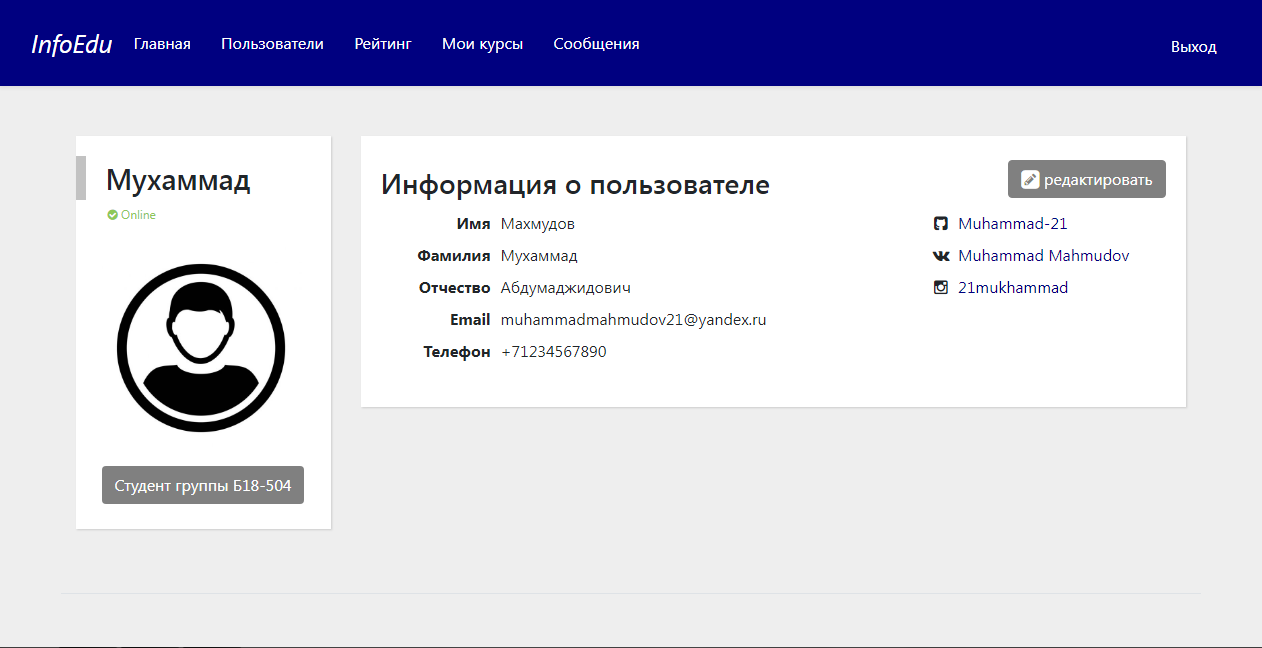
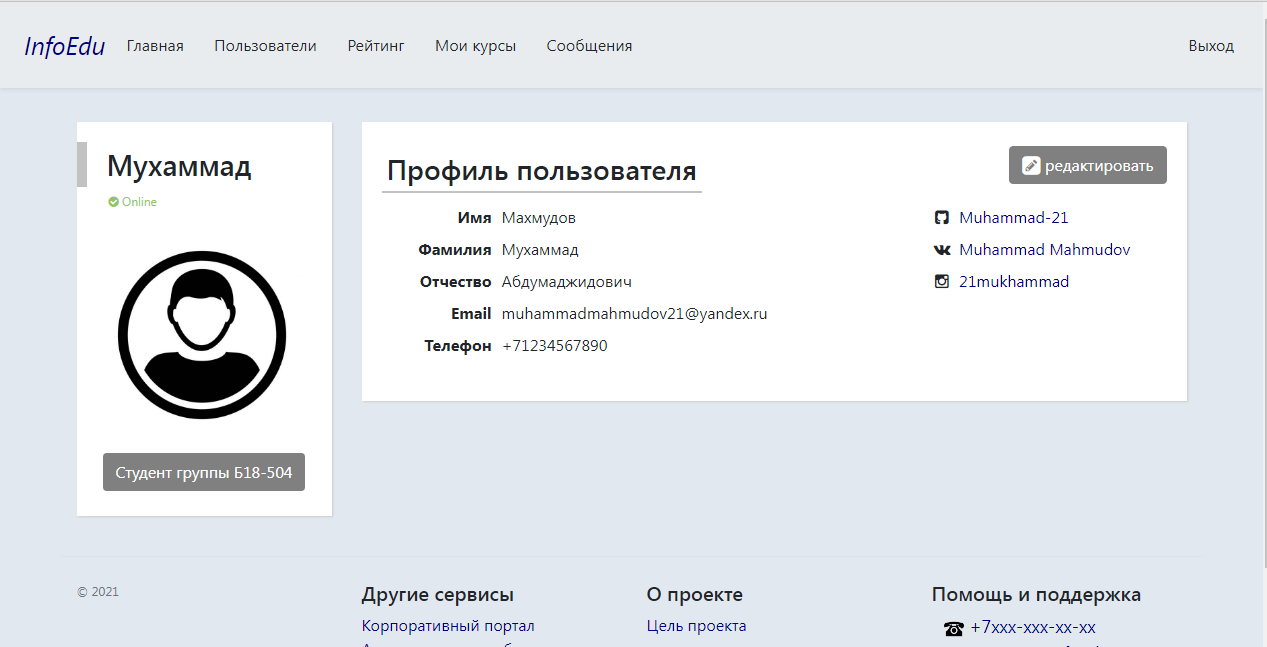
[*] new interface

diff --git a/js/headers.js b/js/headers.js
@@ -17,20 +17,20 @@ RatingEl.onclick = () => {
         BlockEl.style.display='block';
     },3500);
     }
-    MyCourseEl.style.background = 'Navy'
-    MyCourseEl.style.color = 'white';
+    MyCourseEl.style.background = '#e9ecef'
+    MyCourseEl.style.color = 'black';
     RatingEl.style.background = 'white'
-    RatingEl.style.color = 'black';
+    RatingEl.style.color = '#2aa493';
     CoursesEl.style.display = 'none';
     PersonEl.style.display = 'none';
     MyRatingEl.style.display = 'block';
 }
 
 MyCourseEl.onclick = () => {
-    RatingEl.style.background = 'Navy'
-    RatingEl.style.color = 'white';
+    RatingEl.style.background = '#e9ecef'
+    RatingEl.style.color = 'black';
     MyCourseEl.style.background = 'white'
-    MyCourseEl.style.color = 'black';
+    MyCourseEl.style.color = '#2aa493';
     CoursesEl.style.display = 'block';
     PersonEl.style.display = 'none';
     PersonEl.style.display = 'none'

diff --git a/css/students.css b/css/students.css
@@ -1,13 +1,14 @@
-.user_inter{
-    margin-top:50px;
+
+    .button__hover:hover{
+        color:#2aa493;
+        background-color: white;
     }
-    
     h2 {
         clear: both;
         font-size: 1.8em;
         margin-bottom: 10px;
         padding: 10px 0 10px 30px;
-    } */
+    }
     
     h3 > span {
         border-bottom: 2px solid #C2C2C2;

diff --git a/js/oait_student.js b/js/oait_student.js
@@ -14,7 +14,7 @@ RatingEl.onclick = () => {
     },3500);
     }
     RatingEl.style.background = 'white'
-    RatingEl.style.color = 'black';
+    RatingEl.style.color = '#2aa493';
     PersonEl.style.display = 'none';
     MyRatingEl.style.display = 'block';
 }

diff --git a/student.php b/student.php
@@ -31,12 +31,12 @@ $courses=$results->fetch_assoc();
     <link rel="stylesheet" href="./css/students.css">
     <title>Личный кабинет</title>
 </head>
-<body style="background:#eee;">
+<body style="background:#e2e8f0;">
     <?php require 'blocks/header.php'?>
-    <div data-id="root">
+    <div style="margin-top: 120px;" data-id="root">
     <!-- Информация о студенте -->
     <div data-person="person">
-    <div class="container bootstrap snippets bootdeys user_inter">
+    <div class="container bootstrap snippets bootdeys">
     <div class="row" id="user-profile">
         <div class="col-lg-3 col-md-4 col-sm-4">
             <div class="main-box clearfix">
@@ -45,9 +45,11 @@ $courses=$results->fetch_assoc();
                     <i class="fa fa-check-circle"></i> Online
                 </div>
                 <form method="POST" action="../load_img.php" enctype="multipart/form-data">
-                    <label style="cursor:pointer" title="выберите фотографию" class="custom-file-upload">
+                    <label style="cursor:pointer" title="выберите фотографию" class="img__link custom-file-upload">
+                        <!-- <a href="#" class="img__link"> -->
                         <input name="image" style="display:none;" type="file" onchange="form.submit()"/>
-                        <a href="#" class="img__link"><img src="<?php echo '../img/users/'.$mail['photo_link']?>" alt="person" class="profile-img img-responsive"></a>
+                        <img src="<?php echo '../img/users/'.$mail['photo_link']?>" alt="person" class="profile-img img-responsive">
+                        <!-- </a> -->
                     </label>
                 </form>
                 <?php if($mail['photo_link']!=='personw.jpg' && $mail['photo_link']!=='person.jpg'){?>
@@ -66,7 +68,7 @@ $courses=$results->fetch_assoc();
         <div class="col-lg-9 col-md-18 col-sm-8">
             <div class="main-box clearfix">
                 <div class="profile-header">
-                    <h3><span>Информация о пользователе</span></h3>
+                    <h3><span>Профиль пользователя</span></h3>
                     <a href="#" class="btn btn-primary edit-profile">
                         <i class="fa fa-pencil-square fa-lg"></i> редактировать
                     </a>
@@ -202,6 +204,6 @@ $courses=$results->fetch_assoc();
     <?php require 'blocks/footer.php';
     $mysql->close();
     ?>
-    <script src="./js/header.js"></script>
+    <script src="./js/headers.js"></script>
 </body>
 </html>

diff --git a/oait.php b/oait.php
@@ -10,18 +10,18 @@ require 'exit/exit.php';
     <meta name="viewport" content="width=device-width, initial-scale=1.0">
     <link rel="icon" href="./img/favicon.png" type="image/x-icon">
     <link rel="stylesheet" href="https://stackpath.bootstrapcdn.com/bootstrap/4.3.1/css/bootstrap.min.css">
+    <link rel="stylesheet" href="./css/students.css">
     <title>ОАИТ</title>
 </head>
 <body>
-<div style="background-color: Navy ;">
-<div class="d-flex align-items-center flex-column flex-md-row p-3 px-md-4  shadow-sm">
-    <a class="p-2 text-dark" href="./student.php" style="text-decoration: none;"><span style="color: white; font-size: 25px; font-style:italic">InfoEdu</span></a>
-    <nav class="my-2 my-md-0 me-md-3" >
-    <a class="btn" style="color: white;" href="./student.php">Главная</a>
-    <div  data-id="rating" class="btn"   style="color: white;">Рейтинг</div>
-    <a class="btn" style="color: white; position:absolute; margin-left:60%; bottom:90%;" href="student.php">Вернуться назад</a>
+<div style="background-color: #e9ecef;position:fixed; top:0; width: 100%; z-index:1">
+<div class="d-flex align-items-center flex-md-row p-3 px-md-6  shadow-sm">
+<a class="p-2 text-dark" href="./student.php" style="text-decoration: none;"><span style="color: navy; font-size: 25px; font-style:italic">InfoEdu</span></a>
+<nav class="my-md-1" style="width: 100%;">
+    <a class="btn button__hover" href="./student.php">Главная</a>
+    <div style="cursor:pointer;"  data-id="rating" class="btn button__hover">Рейтинг</div>
+    <a class="btn button__hover" style="float:right" href="student.php">Вернуться назад</a>
     </nav>
-</div>
 </div>
 </div>
     <div style="margin-left: 10%;margin-top:10%;" data-lesson="lesson">
@@ -34,7 +34,7 @@ require 'exit/exit.php';
 
     <?php require 'scripts/rating.php'?>
     <!-- Раздел рейтинг -->
-    <div data-rating="rating">
+    <div style="margin-top:10%;" data-rating="rating">
         <h3 style="margin-left: 15%; margin-top:5%;" ><span>Рейтинг по курсу</span></h3>
         <h5 style="margin-left: 15%;" >Ваш балл по курсу: <?php echo $my_assessment?></h5>
        <div style="border: 3px solid Navy; padding: 40px; margin-left:15%;margin-right:15%;">

diff --git a/laba.php b/laba.php
@@ -11,19 +11,20 @@ $id_st=$_SESSION['id_student'];
     <meta name="viewport" content="width=device-width, initial-scale=1.0">
     <link rel="icon" href="./img/favicon.png" type="image/x-icon">
     <link rel="stylesheet" href="https://stackpath.bootstrapcdn.com/bootstrap/4.3.1/css/bootstrap.min.css">
+    <link rel="stylesheet" href="./css/students.css">
     <title>Лабораторные занятия</title>
 </head>
 <body>
-<div style="background-color: Navy ;">
-<div class="d-flex align-items-center flex-column flex-md-row p-3 px-md-4  shadow-sm">
-    <a class="p-2 text-dark" href="./student.php" style="text-decoration: none;"><span style="color: white; font-size: 25px; font-style:italic">InfoEdu</span></a>
-    <nav class="my-2 my-md-0 me-md-3" >
-    <a class="btn" style="color: white;" href="./student.php">Главная</a>
-    <a class="btn" style="color: white; position:absolute; margin-left:70%; bottom:90%;" href="oait.php">Вернуться назад</a>
+<div style="background-color: #e9ecef;position:fixed; top:0; width: 100%; z-index:1">
+<div class="d-flex align-items-center flex-md-row p-3 px-md-6  shadow-sm">
+<a class="p-2 text-dark" href="./student.php" style="text-decoration: none;"><span style="color: navy; font-size: 25px; font-style:italic">InfoEdu</span></a>
+<nav class="my-md-1" style="width: 100%;">
+    <a class="btn button__hover" href="./student.php">Главная</a>
+    <a class="btn button__hover" style="float:right" href="oait.php">Вернуться назад</a>
     </nav>
 </div>
 </div>
-<div style="border: 3px solid Navy;margin:5%;"><br>
+<div style="border: 3px solid Navy;margin:5%;margin-top:10%;"><br>
 <span style="font-size: 16px;margin-left:15%;color: Navy; ">Добавленные метериалы для подготовки</span><br>
     <?php 
     $mysql=new mysqli('localhost','root','','InfoEdu');

diff --git a/seminar.php b/seminar.php
@@ -11,19 +11,20 @@ $id_st=$_SESSION['id_student'];
     <meta name="viewport" content="width=device-width, initial-scale=1.0">
     <link rel="icon" href="./img/favicon.png" type="image/x-icon">
     <link rel="stylesheet" href="https://stackpath.bootstrapcdn.com/bootstrap/4.3.1/css/bootstrap.min.css">
+    <link rel="stylesheet" href="./css/students.css">
     <title>Семинарские занятия</title>
 </head>
 <body>
-<div style="background-color: Navy ;">
-<div class="d-flex align-items-center flex-column flex-md-row p-3 px-md-4  shadow-sm">
-    <a class="p-2 text-dark" href="./student.php" style="text-decoration: none;"><span style="color: white; font-size: 25px; font-style:italic">InfoEdu</span></a>
-    <nav class="my-2 my-md-0 me-md-3" >
-    <a class="btn" style="color: white;" href="./student.php">Главная</a>
-    <a class="btn" style="color: white; position:absolute; margin-left:70%; bottom:90%;" href="oait.php">Вернуться назад</a>
+<div style="background-color: #e9ecef;position:fixed; top:0; width: 100%; z-index:1">
+<div class="d-flex align-items-center flex-md-row p-3 px-md-6  shadow-sm">
+<a class="p-2 text-dark" href="./student.php" style="text-decoration: none;"><span style="color: navy; font-size: 25px; font-style:italic">InfoEdu</span></a>
+<nav class="my-md-1" style="width: 100%;">
+    <a class="btn button__hover" href="./student.php">Главная</a>
+    <a class="btn button__hover" style="float:right" href="oait.php">Вернуться назад</a>
     </nav>
 </div>
 </div>
-<div style="border: 3px solid Navy;margin:5%;"><br>
+<div style="border: 3px solid Navy;margin:5%;margin-top:10%"><br>
 <span style="font-size: 16px;margin-left:15%;color: Navy; ">Добавленные метериалы для подготовки</span><br>
     <?php 
     $mysql=new mysqli('localhost','root','','InfoEdu');

diff --git a/blocks/header.php b/blocks/header.php
@@ -1,13 +1,13 @@
-<div style="background-color: Navy ;">
-<div class="d-flex align-items-center flex-column flex-md-row p-3 px-md-4  shadow-sm">
-    <a class="p-2 text-dark" href="./student.php" style="text-decoration: none;"><span style="color: white; font-size: 25px; font-style:italic">InfoEdu</span></a>
-    <nav class="my-2 my-md-0 me-md-3" >
-    <a class="btn" style="color: white;" href="./student.php">Главная</a>
-    <a target="_blank" class="btn" style="color: white;" href="../users.php">Пользователи</a>
-    <div  data-id="rating" class="btn"   style="color: white;">Рейтинг</div>
-    <div  data-id="course" class="btn"   style="color: white;">Мои курсы</div>
-    <a class="btn" style="color: white;" href="../mail/mail.php">Сообщения</a>
-    <a class="btn" style="color: white; position:absolute; margin-left:40%; bottom:90%;" href="../exit.php">Выход</a>
+<div style="background-color: #e9ecef;position:fixed; top:0; width: 100%; z-index:1">
+<div class="d-flex align-items-center flex-md-row p-3 px-md-6  shadow-sm">
+    <a class="p-2 text-dark" href="./student.php" style="text-decoration: none;"><span style="color: navy; font-size: 25px; font-style:italic">InfoEdu</span></a>
+    <nav class="my-md-1" style="width: 100%;">
+        <a class="btn button__hover" href="./student.php">Главная</a>
+        <a class="btn button__hover"  href="../users.php">Пользователи</a>
+        <div  class="btn button__hover" data-id="rating" class="btn button__hover"  >Рейтинг</div>
+        <div  style="cursor:pointer" data-id="course" class="btn button__hover"  >Мои курсы</div>
+        <a class="btn button__hover"  href="../mail/mail.php">Сообщения</a>
+        <a class="btn button__hover" style="float:right" href="../exit.php">Выход</a>
     </nav>
 </div>
 </div>

diff --git a/lecture.php b/lecture.php
@@ -10,20 +10,21 @@ require 'exit/exit.php';
     <meta name="viewport" content="width=device-width, initial-scale=1.0">
     <link rel="icon" href="./img/favicon.png" type="image/x-icon">
     <link rel="stylesheet" href="https://stackpath.bootstrapcdn.com/bootstrap/4.3.1/css/bootstrap.min.css">
+    <link rel="stylesheet" href="./css/students.css">
     <title>Лекции</title>
 </head>
 <body>
-<div style="background-color: Navy ;">
-<div class="d-flex align-items-center flex-column flex-md-row p-3 px-md-4  shadow-sm">
-    <a class="p-2 text-dark" href="./student.php" style="text-decoration: none;"><span style="color: white; font-size: 25px; font-style:italic">InfoEdu</span></a>
-    <nav class="my-2 my-md-0 me-md-3" >
-    <a class="btn" style="color: white;" href="./student.php">Главная</a>
-    <a class="btn" style="color: white; position:absolute; margin-left:70%; bottom:90%;" href="oait.php">Вернуться назад</a>
+<div style="background-color: #e9ecef;position:fixed; top:0; width: 100%; z-index:1">
+<div class="d-flex align-items-center flex-md-row p-3 px-md-6  shadow-sm">
+<a class="p-2 text-dark" href="./student.php" style="text-decoration: none;"><span style="color: navy; font-size: 25px; font-style:italic">InfoEdu</span></a>
+<nav class="my-md-1" style="width: 100%;">
+    <a class="btn button__hover" href="./student.php">Главная</a>
+    <a class="btn button__hover" style="float:right" href="oait.php">Вернуться назад</a>
     </nav>
 </div>
 </div>
 
-<div style="border: 3px solid Navy;margin:5%;"><br>
+<div style="border: 3px solid Navy;margin:5%;margin-top:10%;"><br>
 <span style="font-size: 16px;margin-left:15%;color: Navy; ">Материалы для подготовки</span><br>
     <?php 
     $mysql=new mysqli('localhost','root','','InfoEdu');

diff --git a/blocks/footer.php b/blocks/footer.php
@@ -1,4 +1,4 @@
-<footer class="container pt-4 my-md-5 pt-md-5 border-top">
+<footer class="container pt-4 my-md-4 pt-md-4 border-top">
     <div class="row">
       <div class="col-12 col-md">
         <small class="d-block mb-3 text-muted">© 2021</small>
